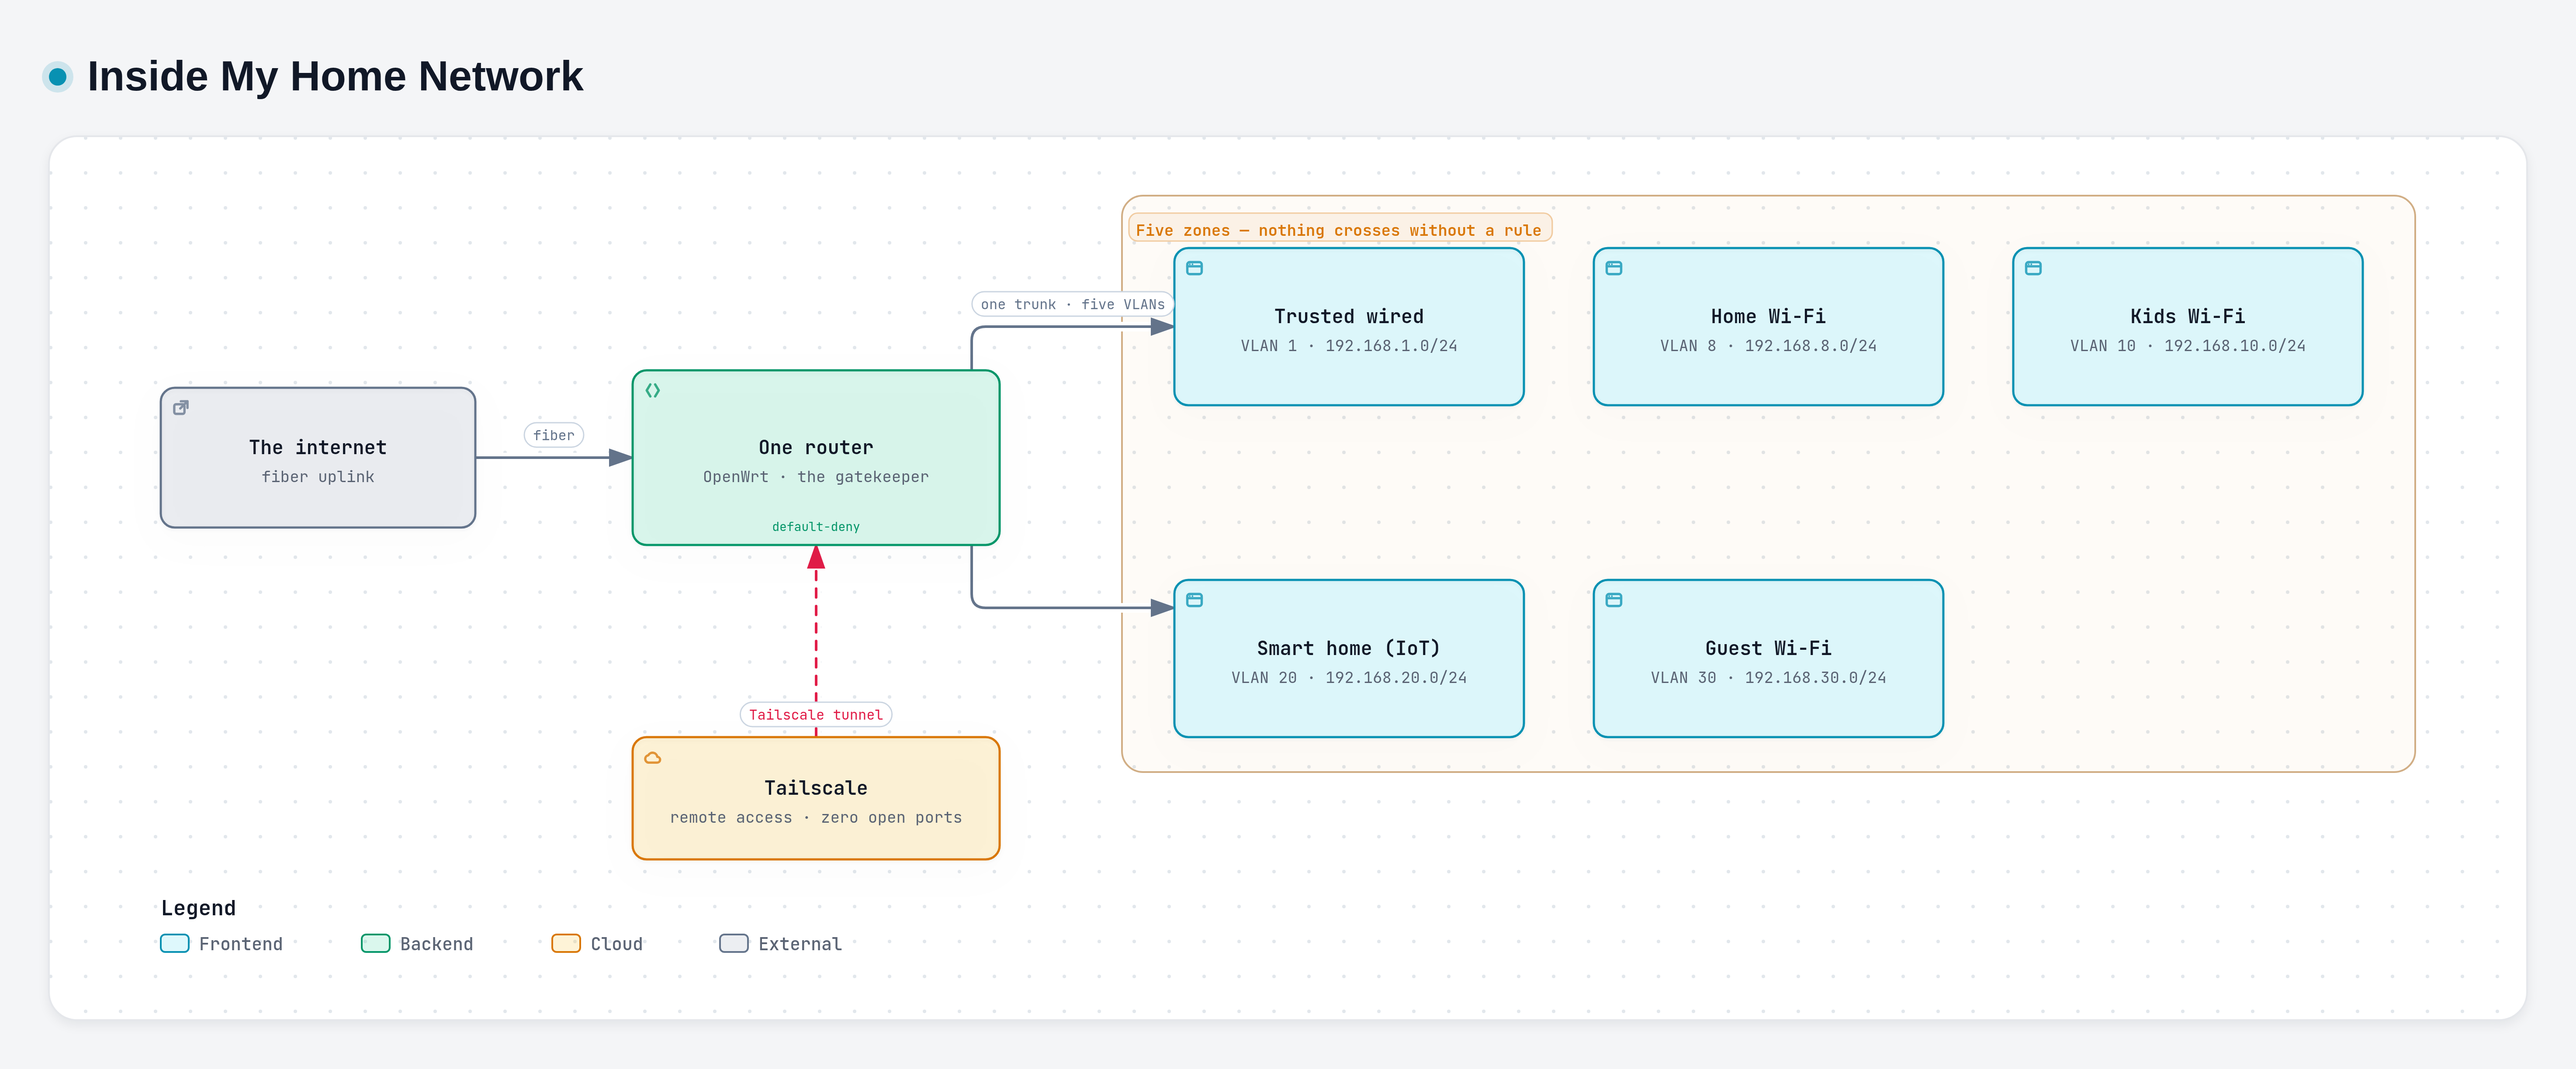
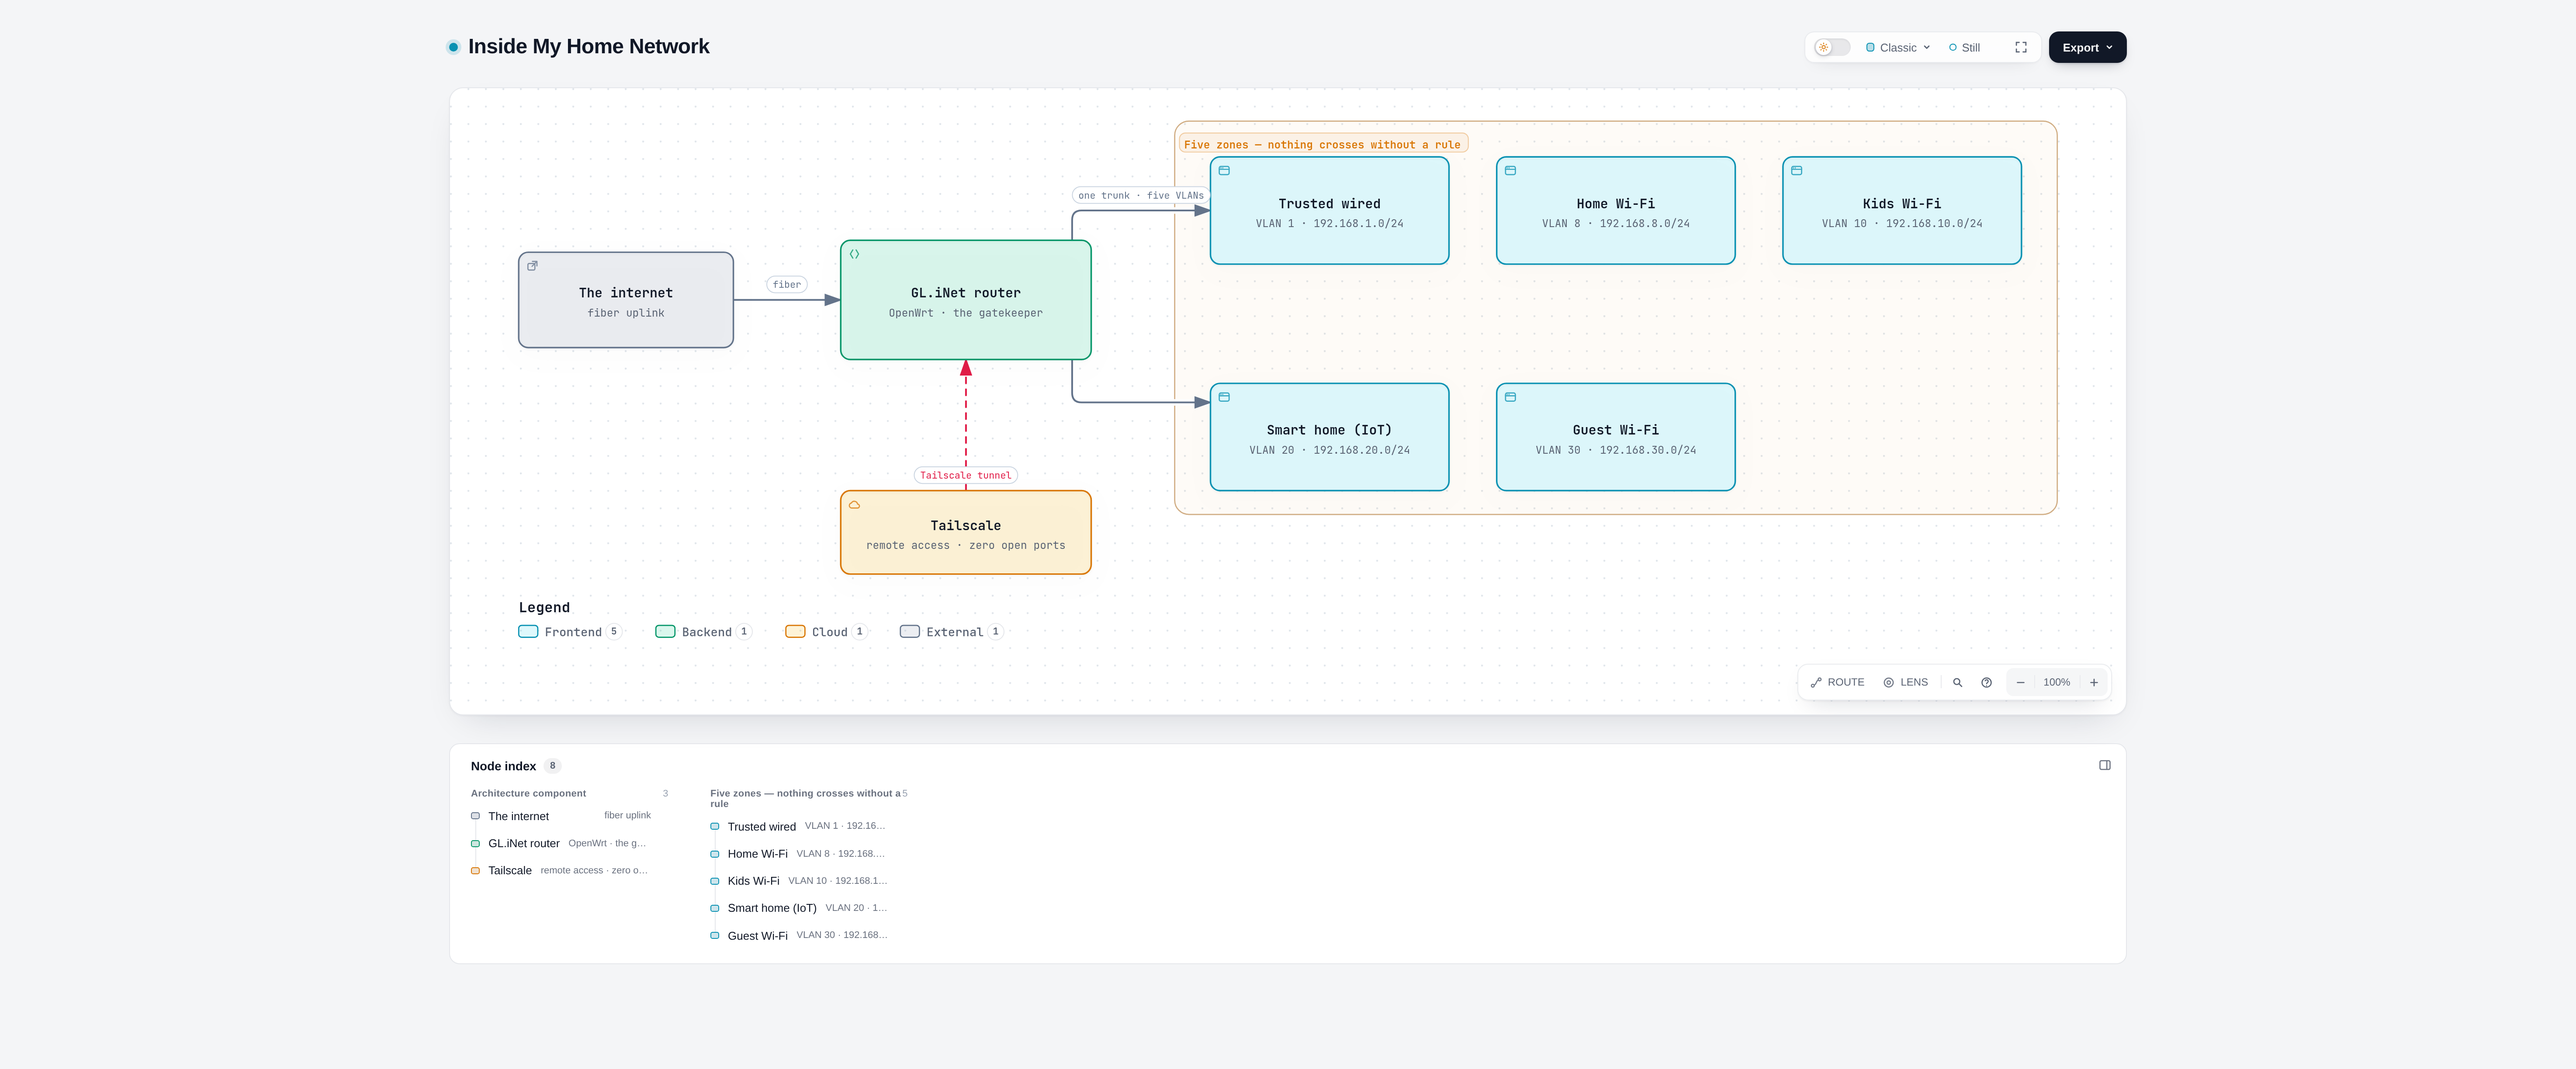
Apply PR #4 review fixes and un-draft the post
- Doorbell sentence now names the photos on the data drive in the home NAS
- 'GL.iNet Beryl' becomes 'GL.iNet router' in prose, alt text, and both diagrams
- TV moves from Home Wi-Fi to the Smart home (IoT) zone (table, prose, diagram)
- Home Assistant pinholes rewritten to cross-zone targets: music streamers
  and phones (home Wi-Fi), Proxmox server (trusted wired); diagrams redrawn
  with exactly those three pinhole arrows
- Set draft: false

diff --git a/content/posts/inside-my-home-network/index.md b/content/posts/inside-my-home-network/index.md
@@ -4,7 +4,7 @@ description: "How one homeowner split a home network into five VLANs with a defa
 date: '2026-10-18'
 summary: "Five zones on one router, nothing trusted by default, DNS that can't be quietly bypassed, and remote access without a single open door — plus the five mistakes my own audit found."
 tags: ["Home Network", "Security", "Networking"]
-draft: true
+draft: false
 showHero: false
 ---
 
@@ -14,7 +14,7 @@ showHero: false
 
 ## 1. Why Segment a Home at All?
 
-A typical home network is an apartment building where every door stands open. Your laptop, the kids' tablets, the TV, a smart plug, a light bulb, and your guest's phone all live on the same network — and by default, any of them can knock on any other's door. The TV doesn't need to talk to the laptop with the tax returns. The internet-connected doorbell has no business reaching the backup drive. But on a flat network, nobody told them that.
+A typical home network is an apartment building where every door stands open. Your laptop, the kids' tablets, the TV, a smart plug, a light bulb, and your guest's phone all live on the same network — and by default, any of them can knock on any other's door. The TV doesn't need to talk to the laptop with the tax returns. The internet-connected doorbell has no business reaching the photos on the data drive in my home NAS. But on a flat network, nobody told them that.
 
 This is not a hypothetical worry. In 2016, the Mirai botnet infected over 600,000 vulnerable internet-of-things devices — home routers, air-quality monitors, surveillance cameras — and used them to knock major websites offline [^1]. That wasn't a one-off: researchers tracking IoT threats in 2023 found malware families descended from Mirai still active, with weak device passwords still the primary way in [^2]. The gadgets are the softest target in the house, and a flat network hands them the run of the place.
 
@@ -24,7 +24,7 @@ So that's the project this post describes: put fences inside the house. Not beca
 
 ## 2. The Map: One Router, Five Zones
 
-The whole setup runs on a single small router — a GL.iNet Beryl — running OpenWrt, an open-source router operating system. (The software a router runs is called its *firmware*; replacing the manufacturer's default with something like OpenWrt is like replacing a locked-down appliance with a general-purpose computer.) You don't need this specific hardware for the ideas; you need firmware that supports the one feature everything else builds on: **VLANs**.
+The whole setup runs on a single small router — a GL.iNet router — running OpenWrt, an open-source router operating system. (The software a router runs is called its *firmware*; replacing the manufacturer's default with something like OpenWrt is like replacing a locked-down appliance with a general-purpose computer.) You don't need this specific hardware for the ideas; you need firmware that supports the one feature everything else builds on: **VLANs**.
 
 A VLAN — virtual local area network — is an invisible wall drawn inside the network wiring. The standard that defines them (IEEE 802.1Q) is the same technology businesses use to slice one physical office network into many logical ones [^4]. To the devices, each VLAN looks like its own private network; they can't see the others exist. One physical cable from the router carries all of them, tagged like mail sorted into different bins.
 
@@ -32,15 +32,15 @@ Every zone gets an address range from the private space (192.168.x.x) that never
 
 | Zone | VLAN | Addresses | Who lives there |
 |---|---|---|---|
-| Trusted wired | 1 | 192.168.1.0/24 | The desktop, the server, the stuff I administer |
-| Home Wi-Fi | 8 | 192.168.8.0/24 | Our phones and laptops, the TV |
+| Trusted wired | 1 | 192.168.1.0/24 | The desktop, the Proxmox server, the stuff I administer |
+| Home Wi-Fi | 8 | 192.168.8.0/24 | Our phones and laptops, the music streamers |
 | Kids Wi-Fi | 10 | 192.168.10.0/24 | The children's devices, on a leash (more below) |
-| Smart home (IoT) | 20 | 192.168.20.0/24 | Lights, plugs, sensors, the solar inverter, the automation hub |
+| Smart home (IoT) | 20 | 192.168.20.0/24 | Lights, plugs, sensors, the TV, the solar inverter, the automation hub |
 | Guest Wi-Fi | 30 | 192.168.30.0/24 | Visitors — polite but distrusted |
 
 The fiber line from the internet provider arrives on its own tagged VLAN, separate from all of the above. Wi-Fi security is WPA2/WPA3 — WPA3 being the newest Wi-Fi protection standard, which resists password-guessing attempts far better than its predecessor [^6] — with a fast-roaming feature so phones switch between access points without dropping calls [^7].
 
-{{< figure src="fig-1-network-map.png" alt="Diagram of the home network: a fiber internet line and a Tailscale tunnel enter a GL.iNet Beryl router running OpenWrt; from the router, one cable fans out into five labeled zones — trusted wired (VLAN 1, 192.168.1.0/24), home Wi-Fi (VLAN 8, 192.168.8.0/24), kids Wi-Fi (VLAN 10, 192.168.10.0/24), smart home IoT (VLAN 20, 192.168.20.0/24), and guest Wi-Fi (VLAN 30, 192.168.30.0/24) — each zone sending its DNS lookups through one of two AdGuard Home filters before reaching the unbound resolver on the router, with a narrow pinhole path from the Home Assistant hub to the TV and the solar inverter." >}}
+{{< figure src="fig-1-network-map.png" alt="Diagram of the home network: a fiber internet line and a Tailscale tunnel enter a GL.iNet router running OpenWrt; from the router, one cable fans out into five labeled zones — trusted wired (VLAN 1, 192.168.1.0/24), home Wi-Fi (VLAN 8, 192.168.8.0/24), kids Wi-Fi (VLAN 10, 192.168.10.0/24), smart home IoT (VLAN 20, 192.168.20.0/24, including the TV), and guest Wi-Fi (VLAN 30, 192.168.30.0/24) — each zone sending its DNS lookups through one of two AdGuard Home filters before reaching the unbound resolver on the router, with three narrow pinhole paths out of the smart home IoT zone from the Home Assistant hub: to the music streamers and the phone in home Wi-Fi, and to the Proxmox server in the trusted wired zone." >}}
 
 ## 3. Who Can Talk to Whom: Default-Deny, With Pinholes
 
@@ -50,7 +50,7 @@ Concretely:
 
 - The kids', smart-home, and guest zones cannot reach the router's own settings, and cannot reach any other zone. Their traffic to anywhere internal is rejected outright — not stealthily dropped, just told "no."
 - Each zone *can* reach the internet, because that's what the devices are for. But connections from the internet cannot start anything inward (more on that in section 6).
-- Where life genuinely requires a path, there's a **pinhole** — a rule allowing one specific thing, not a corridor. The automation hub (Home Assistant, the open-source brain of the smart home) lives in the smart-home zone and is the only device there with any cross-zone privileges at all: it may reach the admin screens of the two DNS filters, one solar inverter gateway, and the TV. That's the entire list. Everything else in the smart-home zone sees only the internet.
+- Where life genuinely requires a path, there's a **pinhole** — a rule allowing one specific thing, not a corridor. The automation hub (Home Assistant, the open-source brain of the smart home) lives in the smart-home zone and is the only device there with any cross-zone privileges at all: it may reach the music streamers and our phones on the home Wi-Fi zone, and the Proxmox server on the trusted wired zone — one device, one reason, each. That's the entire list. Everything else in the smart-home zone sees only the internet.
 - Discovery traffic — mDNS, the mechanism devices use to shout "anyone here called 'printer'?" on the local network [^9] — is allowed only in the zones where casting and printing actually need it. That shouting doesn't cross VLAN walls by design, which is exactly the point: your guest's phone announcing itself can't be heard in the kids' zone.
 - And one rule the kids would happily delete: their zone loses internet access on a schedule, 21:30 to 06:00. The fence does parenting duty too.
 
